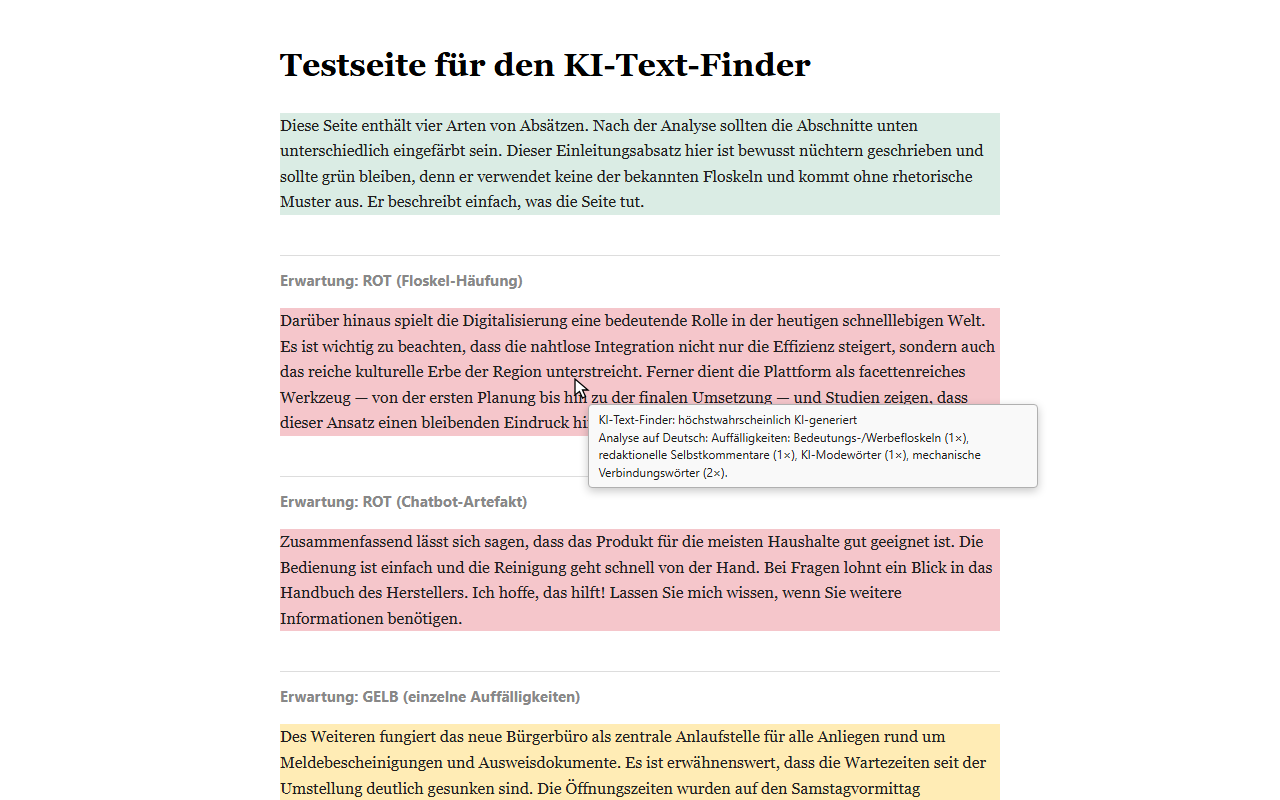
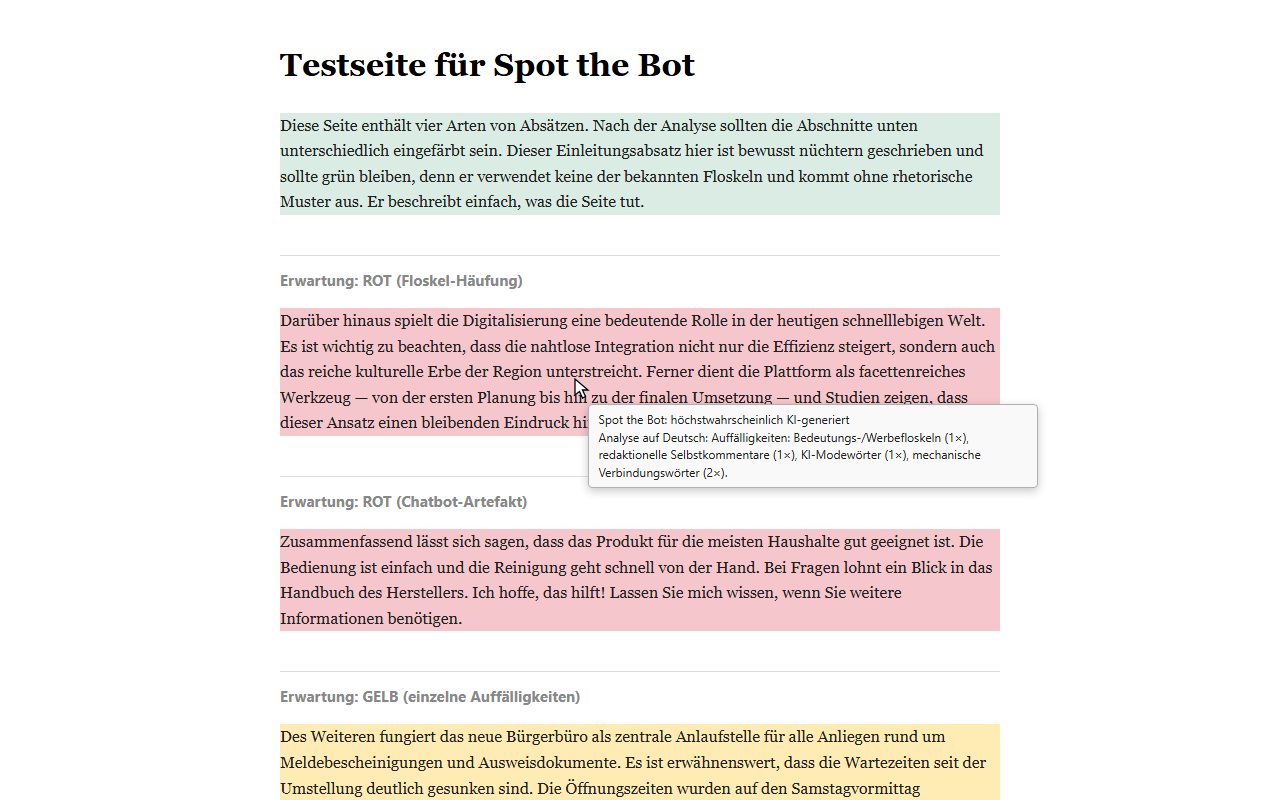
Umbenennung in "Spot the Bot"
Englischer Name fuer den Store-Auftritt; im Chrome Web Store noch frei
(geprueft - die Suche findet nur Twitter-Bot-Entferner). Hebt sich von
der Masse der "AI Content Detector"-Namen ab und beschreibt trotzdem,
was das Tool tut.

Umbenannt: Manifest (Name, Toolbar-Titel), Popup-Ueberschrift,
Tooltip-Praefix in content.js, Titel und Ueberschrift der
Einstellungsseite, Testseite, README, Datenschutzerklaerung und
Store-Texte. ZIP-Paket heisst jetzt spot-the-bot-1.0.zip.

Alle Screenshots neu generiert, weil Testseiten-Titel, Popup-Ueberschrift
und Tooltips den Namen zeigen. Die Einstellungs-Vorlage dabei auf den
Generator-Ansatz umgestellt - sie war als letzte noch eine Handkopie.

GitHub-Repo und Ordnername bleiben ki-text-finder, damit die
Datenschutz-URL im Store-Formular stabil bleibt.

Changed region(s): [[0.375, 0.0625, 0.625, 0.0938], [0.4688, 0.5, 0.6562, 0.5312]]

diff --git a/test-seite.html b/test-seite.html
@@ -2,14 +2,14 @@
 <html lang="de">
 <head>
   <meta charset="utf-8">
-  <title>KI-Text-Finder – Testseite</title>
+  <title>Spot the Bot – Testseite</title>
   <style>
     body { font-family: Georgia, serif; max-width: 720px; margin: 40px auto; line-height: 1.6; padding: 0 16px; }
     h2 { font-family: system-ui, sans-serif; font-size: 15px; color: #888; margin-top: 40px; border-top: 1px solid #ddd; padding-top: 12px; }
   </style>
 </head>
 <body>
-  <h1>Testseite für den KI-Text-Finder</h1>
+  <h1>Testseite für Spot the Bot</h1>
   <p>Diese Seite enthält vier Arten von Absätzen. Nach der Analyse sollten die Abschnitte unten unterschiedlich eingefärbt sein. Dieser Einleitungsabsatz hier ist bewusst nüchtern geschrieben und sollte grün bleiben, denn er verwendet keine der bekannten Floskeln und kommt ohne rhetorische Muster aus. Er beschreibt einfach, was die Seite tut.</p>
 
   <h2>Erwartung: ROT (Floskel-Häufung)</h2>

diff --git a/options.html b/options.html
@@ -2,7 +2,7 @@
 <html lang="de">
 <head>
   <meta charset="utf-8">
-  <title>KI-Text-Finder – Einstellungen</title>
+  <title>Spot the Bot – Einstellungen</title>
   <style>
     body {
       font-family: system-ui, sans-serif;
@@ -37,7 +37,7 @@
   </style>
 </head>
 <body>
-  <h1>KI-Text-Finder – Einstellungen</h1>
+  <h1>Spot the Bot – Einstellungen</h1>
 
   <label for="apiKey">Anthropic API-Key (optional)</label>
   <input type="password" id="apiKey" placeholder="sk-ant-...">

diff --git a/content.js b/content.js
@@ -95,7 +95,7 @@
       el.style.backgroundColor = color.bg;
       el.style.color = AMPEL_TEXTFARBE;
       el.style.transition = "background-color 0.3s";
-      el.title = `KI-Text-Finder: ${color.label}\n${rating.grund}`;
+      el.title = `Spot the Bot: ${color.label}\n${rating.grund}`;
       counts[rating.stufe]++;
     }
     return counts;

diff --git a/popup.html b/popup.html
@@ -45,7 +45,7 @@
   </style>
 </head>
 <body>
-  <h1>KI-Text-Finder</h1>
+  <h1>Spot the Bot</h1>
   <label class="kiOption">
     <input type="checkbox" id="mitKi">
     mit KI untersuchen

diff --git a/store/eintrag.md b/store/eintrag.md
@@ -11,7 +11,7 @@ Wird automatisch aus der `description` in [manifest.json](../manifest.json) übe
 
 ## Ausführliche Beschreibung
 
-> KI-Text-Finder färbt die Textabschnitte der gerade geöffneten Webseite als Ampel ein:
+> Spot the Bot färbt die Textabschnitte der gerade geöffneten Webseite als Ampel ein:
 >
 > 🔴 Rot – höchstwahrscheinlich KI-generiert (deutliche Häufung typischer Merkmale)
 > 🟡 Gelb – wahrscheinlich KI-generiert (einzelne klare Auffälligkeiten)
@@ -69,7 +69,7 @@ Wird automatisch aus der `description` in [manifest.json](../manifest.json) übe
 Das Paket enthält nur die Laufzeitdateien: `manifest.json`, `background.js`, `content.js`, `heuristik.js`, `ampel.js`, `modelle.js`, `popup.html`, `popup.js`, `options.html`, `options.js`, `icons/`. Neu erzeugen:
 
 ```powershell
-tar -a -c -f store/ki-text-finder-1.0.zip manifest.json background.js content.js heuristik.js ampel.js modelle.js popup.html popup.js options.html options.js icons
+tar -a -c -f store/spot-the-bot-1.0.zip manifest.json background.js content.js heuristik.js ampel.js modelle.js popup.html popup.js options.html options.js icons
 ```
 
 Hinweis: bewusst `tar` statt `Compress-Archive` – Letzteres schreibt unter Windows PowerShell 5.1 Backslash-Pfade ins Archiv, daran kann der Store-Upload scheitern.

diff --git a/DATENSCHUTZ.md b/DATENSCHUTZ.md
@@ -1,8 +1,8 @@
-# Datenschutzerklärung – KI-Text-Finder
+# Datenschutzerklärung – Spot the Bot
 
 Stand: 16. August 2026
 
-KI-Text-Finder ist eine Chrome-Erweiterung, die Textabschnitte der gerade geöffneten Webseite danach einfärbt, wie wahrscheinlich sie KI-generiert sind.
+Spot the Bot ist eine Chrome-Erweiterung, die Textabschnitte der gerade geöffneten Webseite danach einfärbt, wie wahrscheinlich sie KI-generiert sind.
 
 ## Was die Erweiterung verarbeitet
 

diff --git a/README.md b/README.md
@@ -1,4 +1,4 @@
-# KI-Text-Finder
+# Spot the Bot
 
 ![Chrome Manifest V3](https://img.shields.io/badge/Chrome-Manifest%20V3-4285F4?logo=googlechrome&logoColor=white)
 ![Version](https://img.shields.io/badge/Version-1.0-blue)
